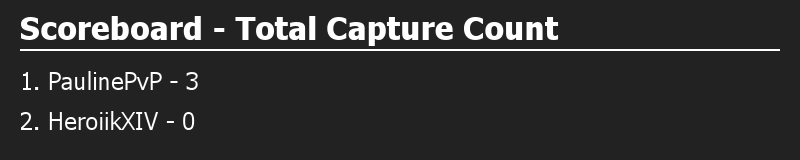
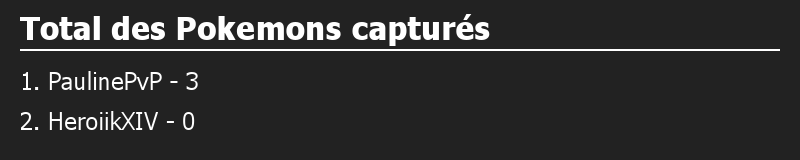
d

Changed region(s): [[0.0, 0.0938, 0.7188, 0.2812]]

diff --git a/script.js b/script.js
@@ -177,7 +177,7 @@ function generateScoreboard(players) {
   // Draw header
   ctx.fillStyle = "#fff";
   ctx.font = "bold 32px sans-serif";
-  ctx.fillText("Scoreboard - Total Capture Count", 20, 40);
+  ctx.fillText("Total des Pokemons capturés", 20, 40);
 
   // Draw a line under the header
   ctx.strokeStyle = "#fff";
